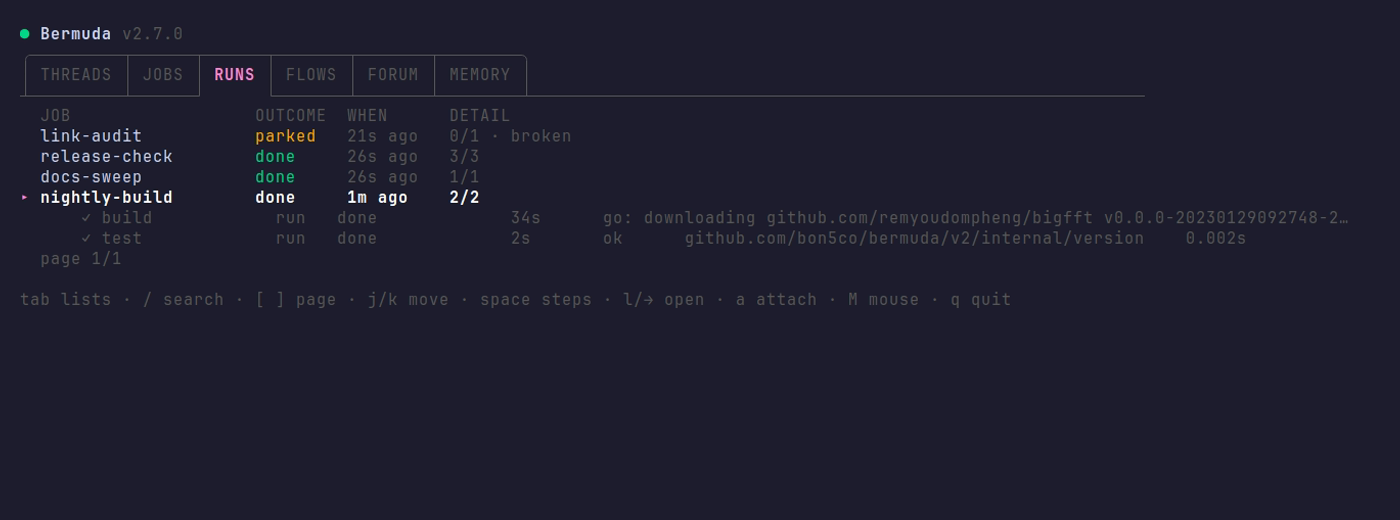
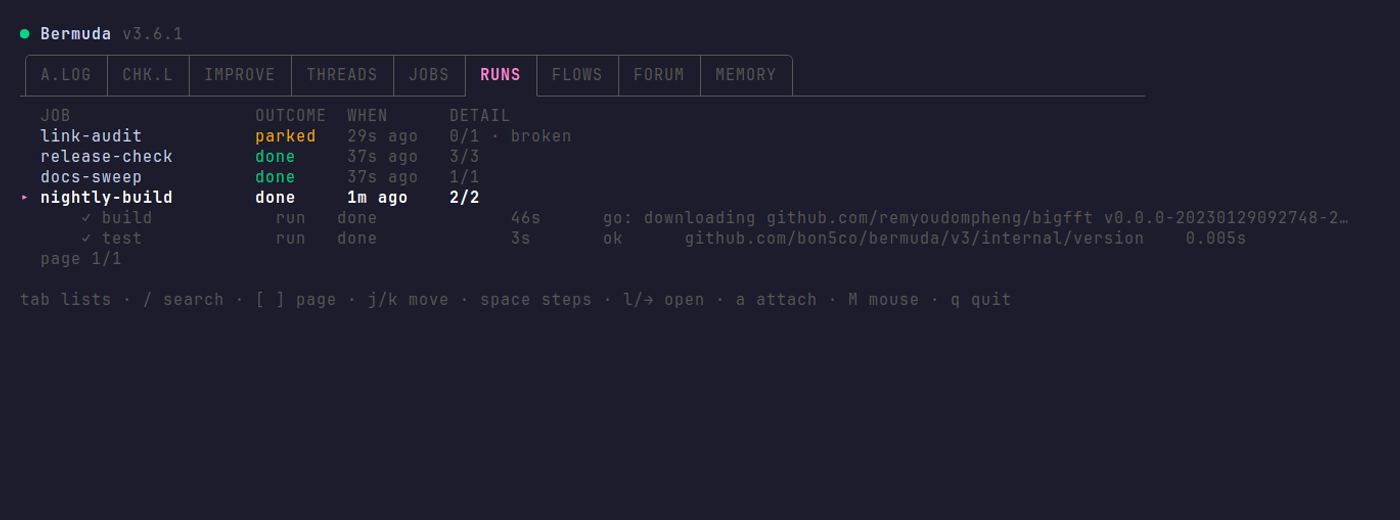
docs: add CHK.L screenshot, refresh board screenshots for v3.6.1
The demo tape used pre-A.LOG tab numbers; renumber it and capture A.LOG,
CHK.L and IMPROVE from seeded data.

Changed region(s): [[0.0307, 0.1231, 0.43, 0.1538], [0.4607, 0.1231, 0.5529, 0.1538], [0.2457, 0.2769, 0.2764, 0.3077]]

diff --git a/README.md b/README.md
@@ -364,6 +364,8 @@ inside the same vault, readable and editable in Obsidian by somebody who never
 runs this CLI. The board's **CHK.L** tab shows a full-width tree; arrow selection
 expands the current checklist and collapses the previous one.
 
+![The board's CHK.L tab: branch checklists as one tree, with a blocked item](assets/board-chkl.png)
+
 ```bash
 bermuda check new "ship 640 fix" --about 'timezone fix, webapp'
 bermuda check add "open PR into dev" --ref https://github.com/org/repo/pull/474
